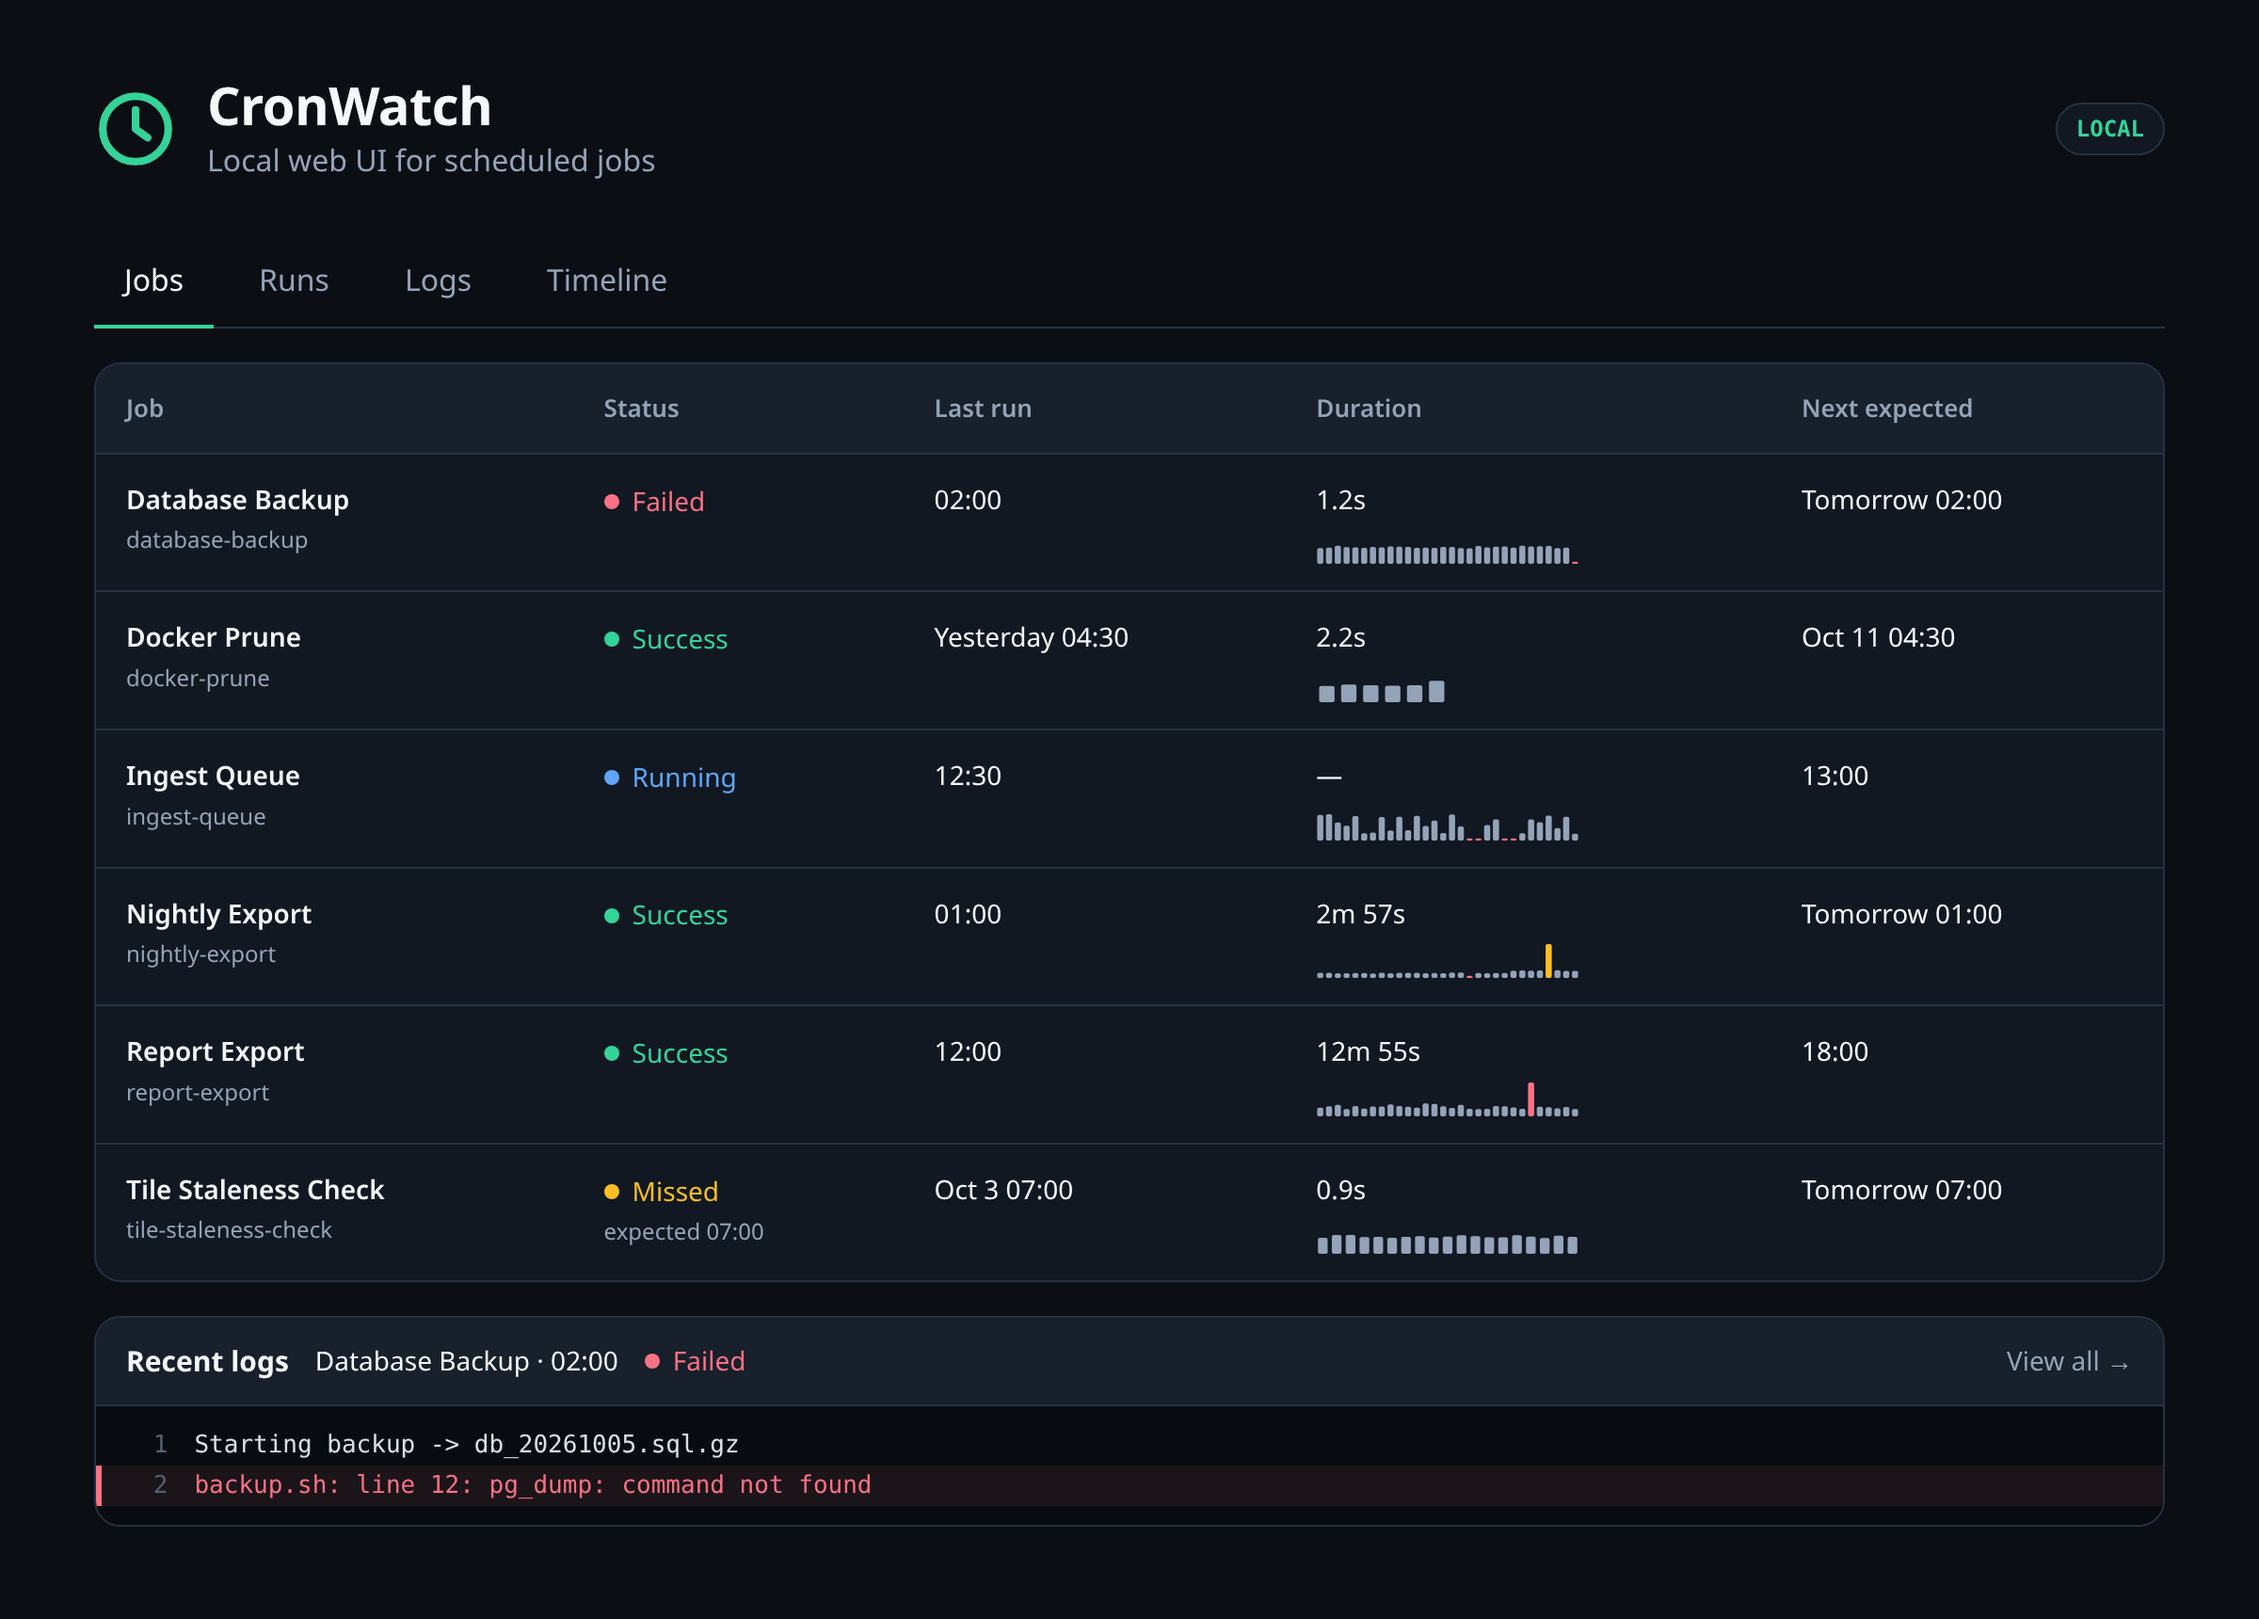
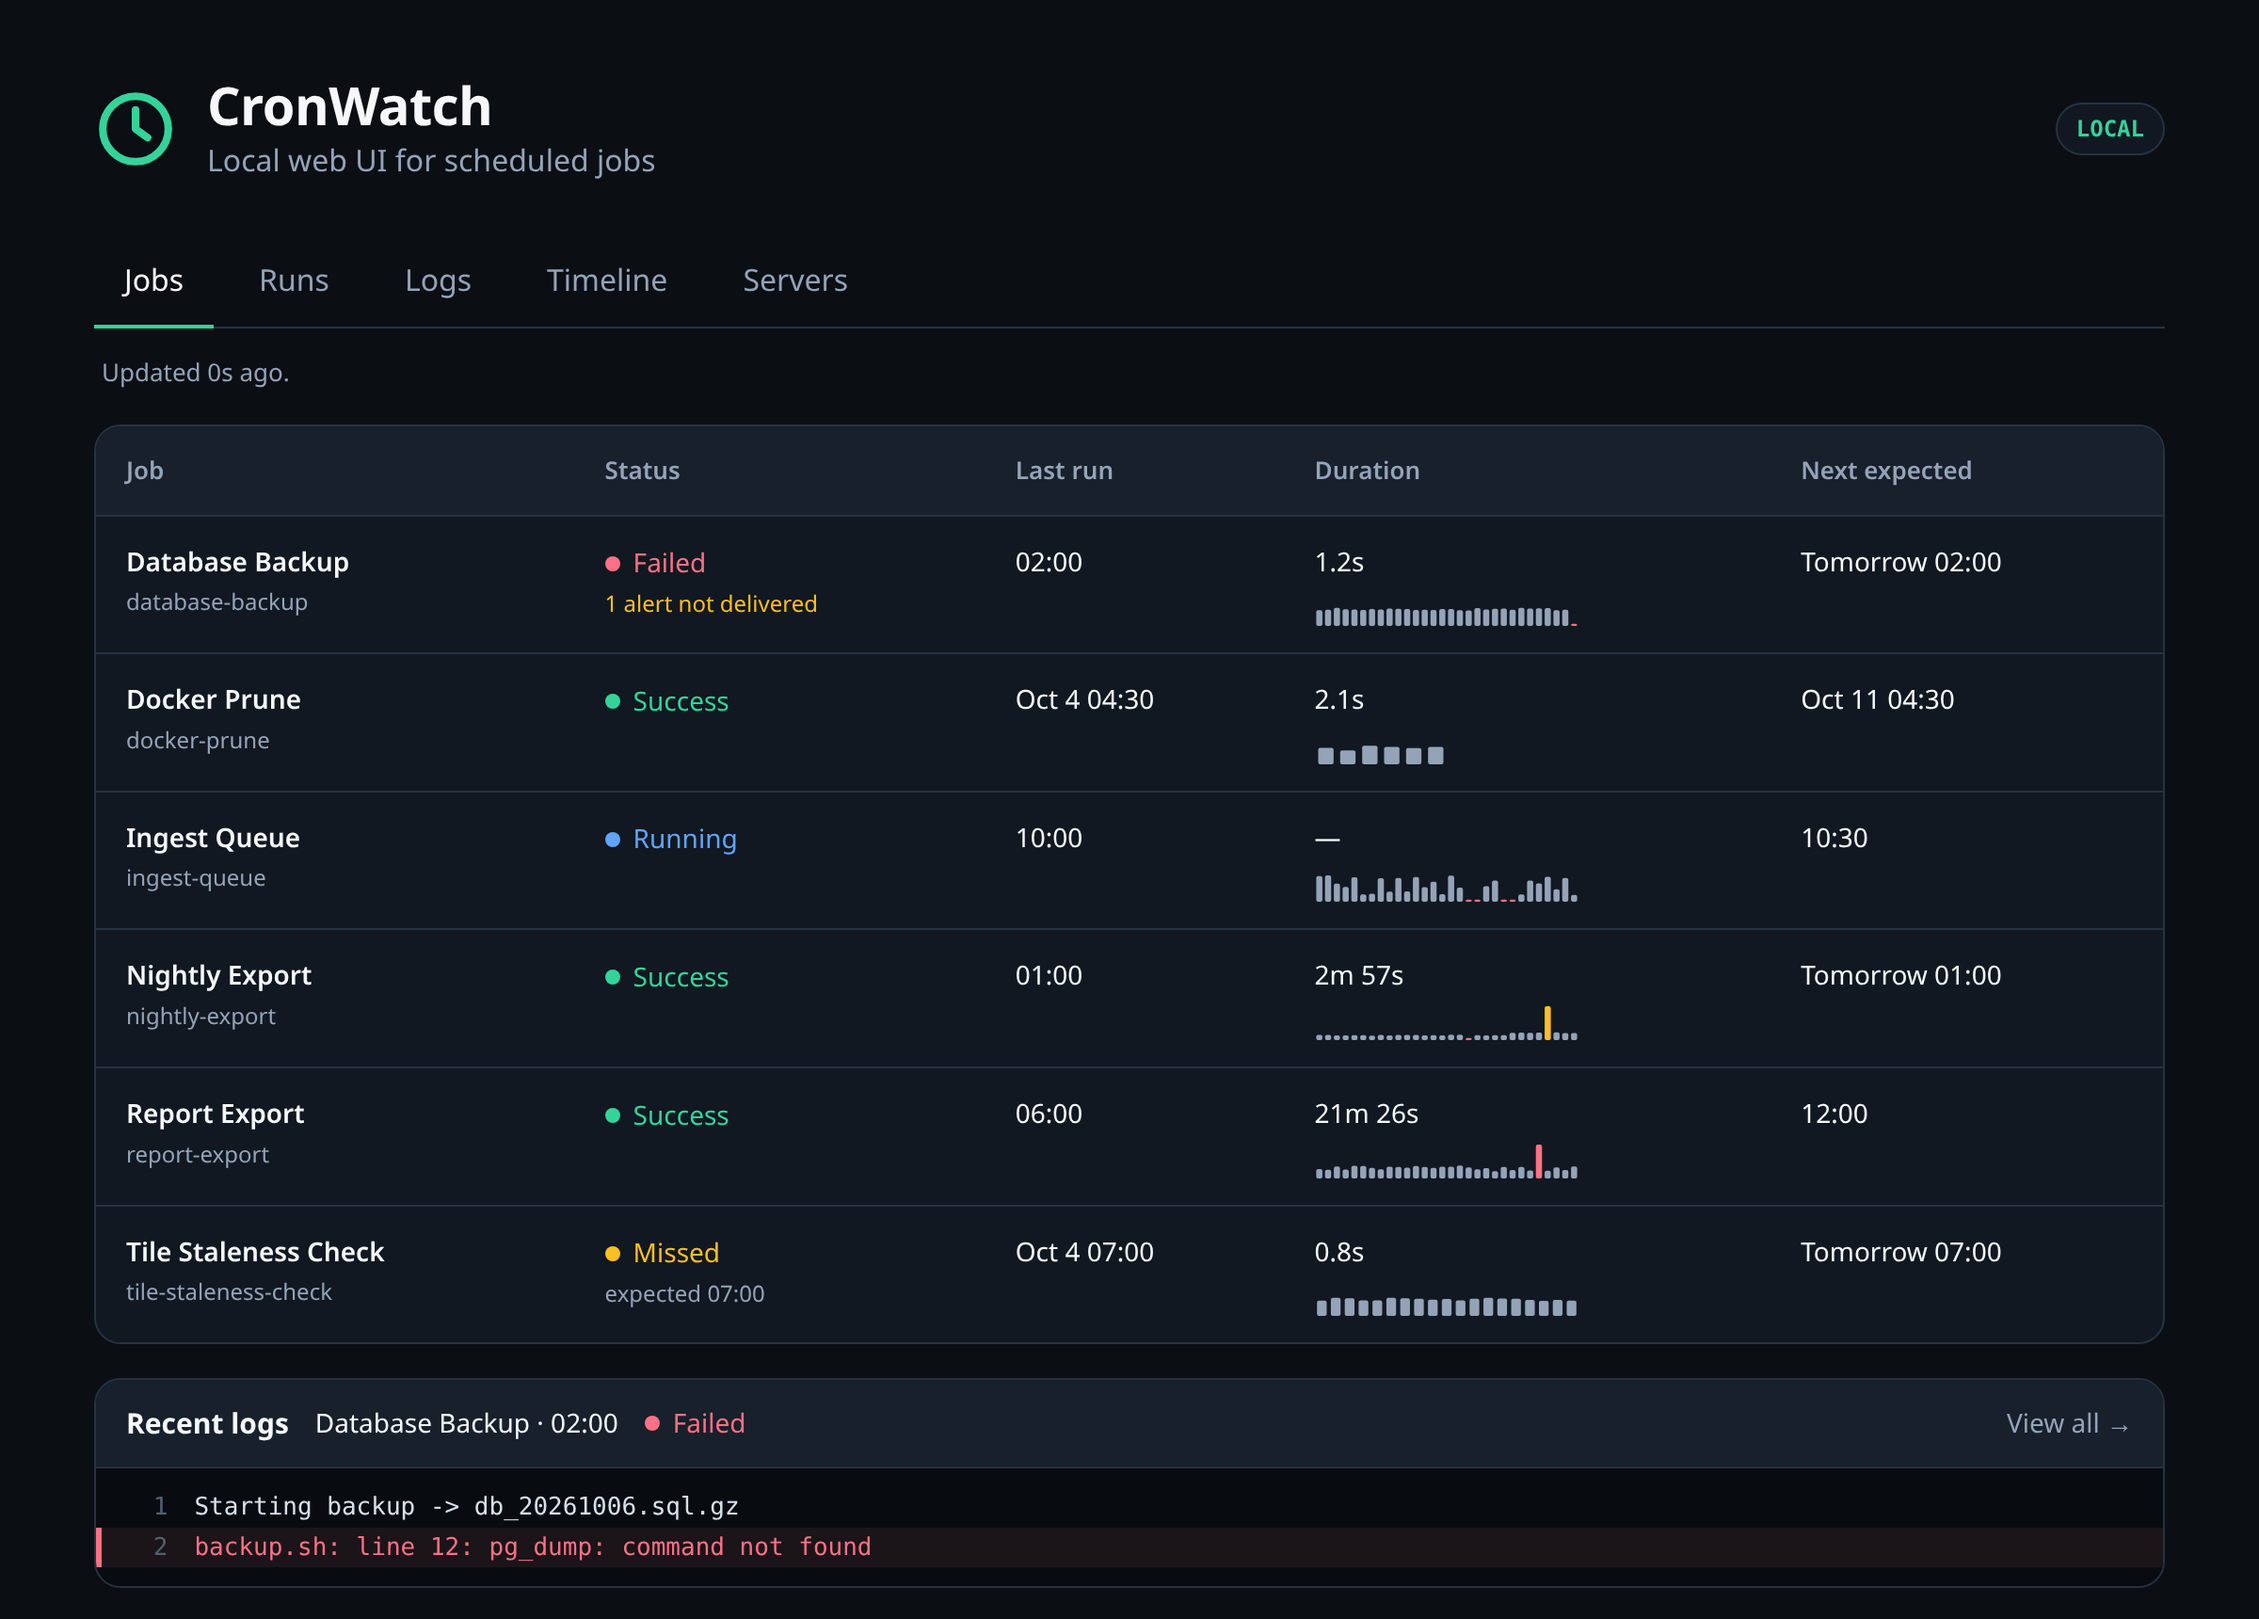
Refresh README screenshots and add the Servers tab and live output
- New screenshots of the Servers tab on a hub, with a reporting, a stale
  and a never-reported server, and of a run in progress with its output
  so far.
- The jobs list, failed run, job durations and timeline screenshots show
  the current dashboard: the Servers tab, when data last arrived, and an
  alert being retried.
- The demo data adds a retried --on-failure alert, partial output for the
  run in progress, and three servers reporting to a hub.
- screenshots.sh stamps the latest release as the version and runs serve
  with a made-up hostname where a user namespace allows, so screenshots
  show neither a development version nor the real machine's name.

diff --git a/scripts/demo/main.go b/scripts/demo/main.go
@@ -9,6 +9,7 @@ package main
 
 import (
 	"context"
+	"encoding/json"
 	"flag"
 	"fmt"
 	"log"
@@ -17,8 +18,10 @@ import (
 	"strings"
 	"time"
 
+	"github.com/yeboahd24/cronwatch/internal/hub"
 	"github.com/yeboahd24/cronwatch/internal/model"
 	"github.com/yeboahd24/cronwatch/internal/runenv"
+	"github.com/yeboahd24/cronwatch/internal/runner"
 	"github.com/yeboahd24/cronwatch/internal/storage"
 )
 
@@ -142,6 +145,14 @@ func (d *demo) fill() error {
 	failed := d.record(backup, run{start: at(0, 2, 0), took: 1200 * time.Millisecond, status: "failed", code: 127, env: cron,
 		stdout: fmt.Sprintf("Starting backup -> db_%s.sql.gz\n", at(0, 2, 0).Format("20060102")),
 		stderr: "backup.sh: line 12: pg_dump: command not found\n"})
+	// Its --on-failure alert has failed three times and is being retried.
+	notify := "/home/deploy/bin/notify-slack"
+	if _, err := d.s.UpsertJob(d.ctx, storage.JobSpec{Slug: backup.Slug, Name: backup.Name, Command: backup.Command, OnFailure: &notify}); err != nil {
+		return err
+	}
+	if err := d.failingAlert(backup, failed, at(0, 2, 0), now); err != nil {
+		return err
+	}
 
 	// Nightly Export: getting slower over the last week, with one very slow
 	// night and an old upstream failure.
@@ -181,7 +192,17 @@ func (d *demo) fill() error {
 		}
 		d.record(ingest, r)
 	}
-	if _, err := d.s.CreateHeartbeatRun(d.ctx, ingest.ID, current); err != nil {
+	live, err := d.s.CreateHeartbeatRun(d.ctx, ingest.ID, current)
+	if err != nil {
+		return err
+	}
+	// The run in progress has written some output so far.
+	var progress strings.Builder
+	for i := 1; i <= 9; i++ {
+		fmt.Fprintf(&progress, "Fetched batch %d/24 (%d items)\n", i, 30+d.rng.IntN(40))
+	}
+	progress.WriteString("Waiting for rate limit to reset (429 from api.partner.example)\n")
+	if err := d.s.SaveRunOutput(d.ctx, live.ID, runner.Output{Stdout: progress.String(), Combined: progress.String()}, now.Add(-40*time.Second)); err != nil {
 		return err
 	}
 
@@ -236,6 +257,86 @@ func (d *demo) fill() error {
 	if _, err := d.s.BackfillFailureSignatures(d.ctx, 500); err != nil {
 		return err
 	}
-	fmt.Printf("FAILED_RUN=%s\nEXPORT_JOB=%s\nINGEST_JOB=%s\n", failed, export.ID, ingest.ID)
+	if err := d.servers(now); err != nil {
+		return err
+	}
+	fmt.Printf("FAILED_RUN=%s\nEXPORT_JOB=%s\nINGEST_JOB=%s\nLIVE_RUN=%s\n", failed, export.ID, ingest.ID, live.ID)
+	return nil
+}
+
+// failingAlert records an --on-failure alert for run whose hook has failed
+// three times, the next retry a few minutes away.
+func (d *demo) failingAlert(j model.Job, runID string, raised, now time.Time) error {
+	if err := d.s.QueueAlert(d.ctx, storage.NewAlert{JobID: j.ID, RunID: runID, Event: "failed", Hook: "on_failure", Created: raised}); err != nil {
+		return err
+	}
+	pending, err := d.s.PendingAlerts(d.ctx, j.ID)
+	if err != nil || len(pending) != 1 {
+		return fmt.Errorf("pending alerts: %v, %w", pending, err)
+	}
+	for attempt := 1; attempt <= 3; attempt++ {
+		if _, err := d.s.ClaimAlert(d.ctx, pending[0].ID, now, now.Add(time.Minute)); err != nil {
+			return err
+		}
+		retry := now.Add(-time.Second) // due again, for the next attempt
+		if attempt == 3 {
+			retry = now.Add(4 * time.Minute)
+		}
+		if err := d.s.FinishAlertAttempt(d.ctx, pending[0].ID, storage.AlertPending, &retry, "exit status 22",
+			"curl: (22) The requested URL returned error: 503\nhooks.slack.example: service unavailable"); err != nil {
+			return err
+		}
+	}
+	return nil
+}
+
+// servers makes this CronWatch a hub for three servers: one reporting, with
+// a failing job; one that stopped reporting 25 minutes ago; and one added but
+// not yet reporting.
+func (d *demo) servers(now time.Time) error {
+	ago := func(dur time.Duration) *time.Time { t := now.Add(-dur); return &t }
+	every := func(s string) *string { return &s }
+	hosts := []struct {
+		name     string
+		reported time.Duration // 0: never
+		report   hub.Report
+	}{
+		{"web-1", 40 * time.Second, hub.Report{Hostname: "web-1.prod.internal", MaintainedAt: ago(40 * time.Second), Jobs: []hub.Job{
+			{Slug: "certbot-renew", Name: "Certbot renew", Status: "failed", Schedule: every("17 3 * * *"), NextExpectedAt: ago(-17 * time.Hour),
+				LastRun: &hub.Run{StartedAt: *ago(7 * time.Hour), Status: "failed", ExitCode: new(1),
+					LastError: "Challenge failed for domain shop.example.com: DNS problem: NXDOMAIN"}},
+			{Slug: "log-rotate", Name: "Nginx log rotate", Status: "success", Schedule: every("0 0 * * *"), NextExpectedAt: ago(-14 * time.Hour),
+				LastRun: &hub.Run{StartedAt: *ago(10 * time.Hour), Status: "success", ExitCode: new(0)}},
+			{Slug: "sitemap", Name: "Sitemap build", Status: "success", Schedule: every("30 * * * *"), NextExpectedAt: ago(-20 * time.Minute),
+				LastRun: &hub.Run{StartedAt: *ago(40 * time.Minute), Status: "success", ExitCode: new(0)}},
+		}}},
+		{"db-1", 25 * time.Minute, hub.Report{Hostname: "db-1.prod.internal", MaintainedAt: ago(25 * time.Minute), Jobs: []hub.Job{
+			{Slug: "pg-vacuum", Name: "Postgres vacuum", Status: "success", Schedule: every("0 4 * * *"), NextExpectedAt: ago(-20 * time.Hour),
+				LastRun: &hub.Run{StartedAt: *ago(6 * time.Hour), Status: "success", ExitCode: new(0)}},
+			{Slug: "wal-archive", Name: "WAL archive check", Status: "success", Schedule: every("*/15 * * * *"), NextExpectedAt: ago(-5 * time.Minute),
+				LastRun: &hub.Run{StartedAt: *ago(30 * time.Minute), Status: "success", ExitCode: new(0)}},
+		}}},
+		{"worker-2", 0, hub.Report{}},
+	}
+	for _, h := range hosts {
+		if _, err := d.s.CreateHost(d.ctx, h.name, now.Add(-2*day)); err != nil {
+			return err
+		}
+		if h.reported == 0 {
+			continue
+		}
+		host, err := d.s.HostByName(d.ctx, h.name)
+		if err != nil {
+			return err
+		}
+		h.report.Version, h.report.Cronwatch, h.report.SentAt = hub.ReportVersion, "v0.11.1", now.Add(-h.reported)
+		body, err := json.Marshal(h.report)
+		if err != nil {
+			return err
+		}
+		if err := d.s.SaveHostReport(d.ctx, host.ID, now.Add(-h.reported), body); err != nil {
+			return err
+		}
+	}
 	return nil
 }

diff --git a/README.md b/README.md
@@ -116,9 +116,11 @@ A run's page also shows why a run counts as failed when its exit code alone
 does not say (see [Deciding success](#deciding-success)), its peak memory and
 CPU time, and whether it started while an earlier run was still going.
 
-![The Jobs page: six jobs with their status, last run, duration and next expected run. Each duration has a small bar chart of recent runs; Nightly Export shows one unusually slow run in yellow. Below, Recent logs shows the failed Database Backup's output ending in "pg_dump: command not found".](docs/images/jobs.png)
+![The Jobs page, "Updated 0s ago": six jobs with their status, last run, duration and next expected run. Database Backup has failed and notes "1 alert not delivered". Each duration has a small bar chart of recent runs; Nightly Export shows one unusually slow run in yellow. Below, Recent logs shows the failed Database Backup's output ending in "pg_dump: command not found".](docs/images/jobs.png)
 
-![A failed run of Database Backup. The last error is "pg_dump: command not found", marked as a new error. A notice says the environment changed since the last successful run: PATH is missing /usr/local/pgsql/bin. The "vs last success" view shows the error as the one new line, and three lines from the last success, from the dump to the upload, as missing.](docs/images/run-failed.png)
+![A failed run of Database Backup. The last error is "pg_dump: command not found", marked as a new error. A notice says the environment changed since the last successful run: PATH is missing /usr/local/pgsql/bin. Its failure alert is "Retrying after 3 failed attempts" with the hook's error. The "vs last success" view shows the error as the one new line, and three lines from the last success, from the dump to the upload, as missing.](docs/images/run-failed.png)
+
+![A run of Ingest Queue still in progress: "Running for 28m. Output last changed 1m ago." Its output so far lists nine fetched batches, then "Waiting for rate limit to reset (429 from api.partner.example)"; the page updates it every few seconds.](docs/images/run-live.png)
 
 ![The Nightly Export job page. Its duration chart shows runs getting taller over the last week with one tall yellow bar for an unusually slow night, and the note "Getting slower: 3m 6s over the last 7 days, up 50% from 2m 4s over the 30 days before." Below, Failure types lists one error, "export: upstream API returned 503 Service Unavailable".](docs/images/job-durations.png)
 
@@ -974,6 +976,8 @@ A report lists each job with its status, schedule, next expected run, missed
 run, pause and undelivered alerts, and its last run's times, exit code,
 reason and, for a failed run, the last line it wrote to stderr. No other
 output leaves the server. Archived jobs are left out.
+
+![The Servers tab on a hub: this server with 2 problems; db-1 stale, with no report for 26 minutes; web-1 with 1 problem; and worker-2, never reported. Below, Jobs on all servers lists the failing and missed jobs first, including web-1's Certbot renew failing with "Challenge failed for domain shop.example.com", and shows db-1's jobs dimmed, "as of 26m ago".](docs/images/servers.png)
 
 **What the hub shows.** A server that has not reported for 3 minutes is
 **stale**: the hub says so, and its jobs are shown dimmed, as of its last
